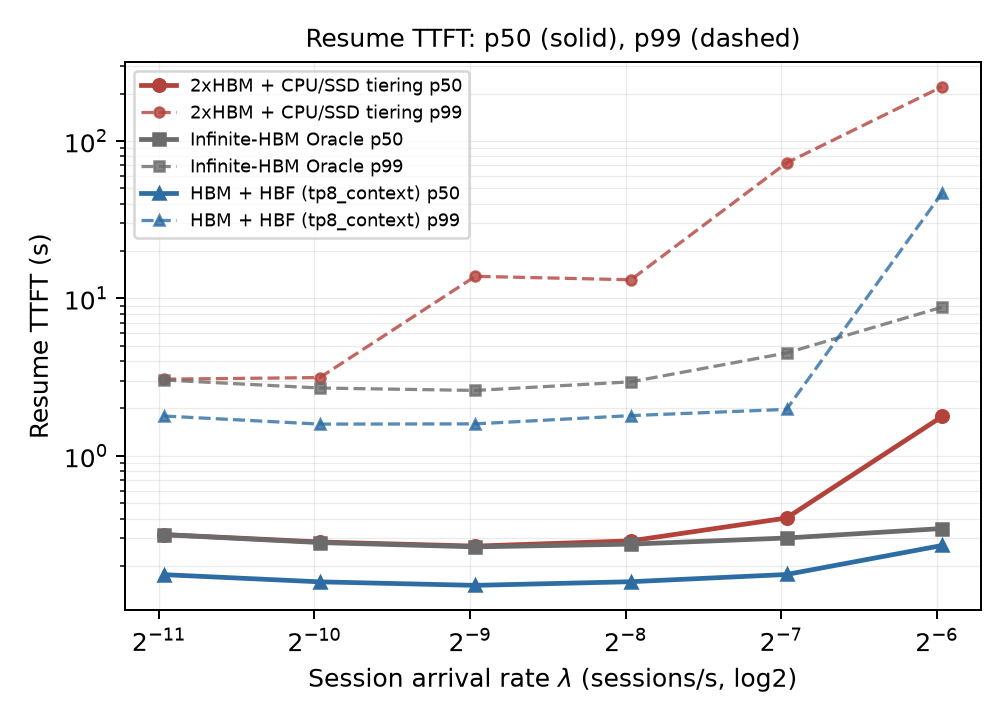
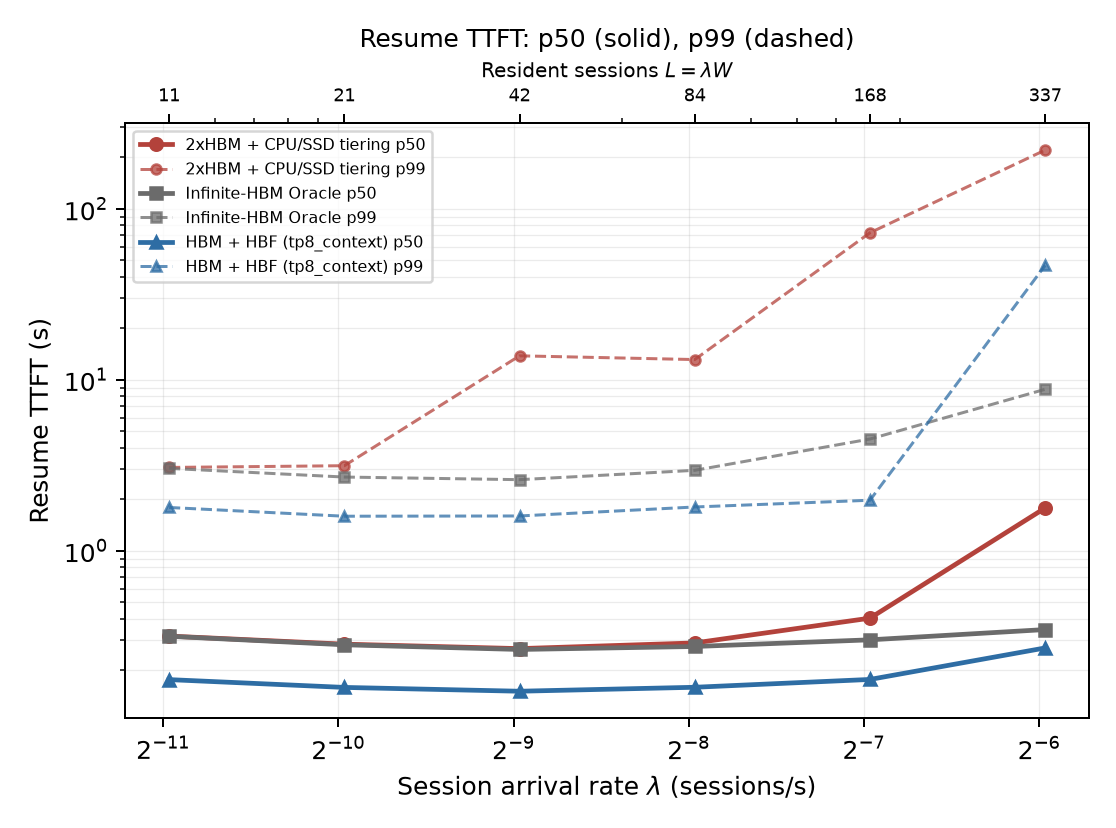
Add the four-panel three-system comparison figure
Resume TTFT, TPOT, turn latency and goodput on one sheet per family, with the
resident population labelled on a second x axis so the load knob reads as
concurrent sessions rather than an abstract rate.  The systems fail in
different places, so no single panel ranks them and the sheet has to be read
together.

diff --git a/experiments/steady_state/plot_system_comparison.py b/experiments/steady_state/plot_system_comparison.py
@@ -1,0 +1,211 @@
+#!/usr/bin/env python3
+"""Four-panel head-to-head of the three systems, one figure per family.
+
+Resume TTFT, TPOT, turn latency and SLO goodput on one sheet, because the
+three systems fail in different places and no single panel ranks them: the
+tiering baseline holds TPOT flat by refusing admission and pays in queueing,
+HBF pays for its residency in per-token latency, and only goodput -- which
+scores TTFT and TPOT together -- puts them on one axis.
+"""
+
+from __future__ import annotations
+
+import argparse
+import csv
+import math
+from pathlib import Path
+
+import matplotlib
+matplotlib.use("Agg")
+import matplotlib.pyplot as plt  # noqa: E402
+
+SCRIPT_ROOT = Path(__file__).resolve().parent
+
+SYSTEM_ORDER = (
+    "baseline_cpu_ssd", "oracle_infinite_hbm", "hbf_tp8_context")
+STYLE = {
+    "baseline_cpu_ssd": ("#B3423B", "o", "2xHBM + CPU/SSD tiering"),
+    "oracle_infinite_hbm": ("#6B6B6B", "s", "Infinite-HBM Oracle"),
+    "hbf_tp8_context": ("#2E6DA4", "^", "HBM + HBF (tp8_context)"),
+}
+FAMILY_LABEL = {
+    "claude": "Claude Code sessions",
+    "codex": "Codex sessions",
+}
+SLO_LEVEL = "tight"
+SLO_CAPTION = "SLO: first 5 s / resume 2 s / TPOT 100 ms"
+
+
+def load(root: Path):
+    rows = []
+    with (root / "aggregate.csv").open(newline="") as handle:
+        for row in csv.DictReader(handle):
+            out = {}
+            for key, value in row.items():
+                if key in {"family", "system", "seeds"}:
+                    out[key] = value
+                    continue
+                try:
+                    out[key] = float(value) if value not in ("", None) else None
+                except (TypeError, ValueError):
+                    out[key] = None
+            rows.append(out)
+    return rows
+
+
+def series(rows, system, metric):
+    pts = [
+        (r["rate"], r[metric]) for r in rows
+        if r["system"] == system and r.get(metric) is not None
+        and not (isinstance(r[metric], float) and math.isnan(r[metric]))
+    ]
+    pts.sort()
+    return pts
+
+
+def concurrency_ticks(ax, rows):
+    """Label the load axis with what it actually means: resident sessions."""
+    pairs = sorted({
+        (r["rate"], r.get("target_concurrency_mean"))
+        for r in rows if r.get("target_concurrency_mean")})
+    if not pairs:
+        return
+    top = ax.secondary_xaxis("top")
+    top.set_xticks([rate for rate, _ in pairs])
+    top.set_xticklabels([f"{int(L)}" for _, L in pairs], fontsize=7)
+    top.set_xlabel("Resident sessions $L = \\lambda W$", fontsize=8)
+
+
+def finish(ax, rows, *, ylabel, title, logy=True, note=None):
+    ax.set_xscale("log", base=2)
+    if logy:
+        ax.set_yscale("log")
+    ax.set_xlabel("Session arrival rate $\\lambda$ (sessions/s)")
+    ax.set_ylabel(ylabel)
+    ax.set_title(title, fontsize=10)
+    ax.grid(True, which="both", alpha=0.25, linewidth=0.5)
+    ax.legend(fontsize=6.5)
+    concurrency_ticks(ax, rows)
+    if note:
+        ax.text(0.02, 0.03, note, transform=ax.transAxes, fontsize=6,
+                color="#555555")
+
+
+def pair_panel(ax, rows, p50_metric, tail_metric, *, ylabel, title, note=None):
+    for system in SYSTEM_ORDER:
+        colour, marker, label = STYLE[system]
+        p50 = series(rows, system, p50_metric)
+        tail = series(rows, system, tail_metric)
+        if p50:
+            ax.plot([p[0] for p in p50], [p[1] for p in p50], marker=marker,
+                    color=colour, linewidth=1.9, markersize=5,
+                    label=f"{label} p50")
+        if tail:
+            ax.plot([p[0] for p in tail], [p[1] for p in tail], marker=marker,
+                    color=colour, linewidth=1.2, markersize=4,
+                    linestyle="--", alpha=0.75, label=f"{label} p99")
+    finish(ax, rows, ylabel=ylabel, title=title, note=note)
+
+
+def panel_turn(ax, rows):
+    for system in SYSTEM_ORDER:
+        colour, marker, label = STYLE[system]
+        pts = series(rows, system, "turn_latency_mean_s_mean")
+        if pts:
+            ax.plot([p[0] for p in pts], [p[1] for p in pts], marker=marker,
+                    color=colour, linewidth=1.9, markersize=5,
+                    label=f"{label} mean")
+        tail = series(rows, system, "turn_latency_p99_s_mean")
+        if tail:
+            ax.plot([p[0] for p in tail], [p[1] for p in tail], marker=marker,
+                    color=colour, linewidth=1.2, markersize=4,
+                    linestyle="--", alpha=0.75, label=f"{label} p99")
+    finish(ax, rows, ylabel="Turn latency (s)",
+           title="End-to-end turn: mean (solid), p99 (dashed)",
+           note="Output length makes TPOT, not TTFT, dominate this")
+
+
+def panel_goodput(ax, rows):
+    for system in SYSTEM_ORDER:
+        colour, marker, label = STYLE[system]
+        pts = series(rows, system, f"goodput_{SLO_LEVEL}_mean")
+        if not pts:
+            continue
+        ax.plot([p[0] for p in pts], [p[1] for p in pts], marker=marker,
+                color=colour, linewidth=1.9, markersize=5, label=label)
+    finish(ax, rows, ylabel="SLO-good output tokens/s", logy=False,
+           title=f"Goodput ({SLO_LEVEL} SLO) -- the only axis that ranks them",
+           note=SLO_CAPTION)
+
+
+def build(family: str, rows, out_dir: Path):
+    sub = [r for r in rows if r["family"] == family]
+    if not sub:
+        return []
+    written = []
+
+    fig, axes = plt.subplots(2, 2, figsize=(12.4, 9.2))
+    pair_panel(axes[0][0], sub,
+               "resume_ttft_p50_s_mean", "resume_ttft_p99_s_mean",
+               ylabel="Resume TTFT (s)",
+               title="Resume TTFT: p50 (solid), p99 (dashed)",
+               note="Baseline pays its capacity limit here")
+    pair_panel(axes[0][1], sub, "tpot_p50_ms_mean", "tpot_p99_ms_mean",
+               ylabel="TPOT (ms/token)",
+               title="Inter-token latency: p50 (solid), p99 (dashed)",
+               note="Flat baseline = admission throttling, not speed")
+    panel_turn(axes[1][0], sub)
+    panel_goodput(axes[1][1], sub)
+    fig.suptitle(
+        f"Three-system comparison at steady state - "
+        f"{FAMILY_LABEL.get(family, family)}", fontsize=13)
+    fig.tight_layout(rect=(0, 0, 1, 0.955))
+    path = out_dir / f"{family}_system_comparison.png"
+    fig.savefig(path, dpi=180)
+    plt.close(fig)
+    written.append(path)
+
+    for name, fn in (
+        ("resume_ttft", lambda ax: pair_panel(
+            ax, sub, "resume_ttft_p50_s_mean", "resume_ttft_p99_s_mean",
+            ylabel="Resume TTFT (s)",
+            title="Resume TTFT: p50 (solid), p99 (dashed)")),
+        ("tpot", lambda ax: pair_panel(
+            ax, sub, "tpot_p50_ms_mean", "tpot_p99_ms_mean",
+            ylabel="TPOT (ms/token)",
+            title="Inter-token latency: p50 (solid), p99 (dashed)")),
+        ("turn_latency", lambda ax: panel_turn(ax, sub)),
+        ("goodput", lambda ax: panel_goodput(ax, sub)),
+    ):
+        fig, ax = plt.subplots(figsize=(6.2, 4.6))
+        fn(ax)
+        fig.tight_layout()
+        path = out_dir / f"{family}_{name}.png"
+        fig.savefig(path, dpi=180)
+        plt.close(fig)
+        written.append(path)
+    return written
+
+
+def main() -> int:
+    parser = argparse.ArgumentParser()
+    parser.add_argument(
+        "--root", type=Path, default=SCRIPT_ROOT / "steady_state_v1")
+    parser.add_argument(
+        "--out", type=Path,
+        default=Path("..")
+        / "figures" / "steady_state_v1")
+    args = parser.parse_args()
+
+    rows = load(args.root)
+    args.out.mkdir(parents=True, exist_ok=True)
+    written = []
+    for family in sorted({r["family"] for r in rows}):
+        written.extend(build(family, rows, args.out))
+    for path in written:
+        print(f"wrote {path}")
+    return 0
+
+
+if __name__ == "__main__":
+    raise SystemExit(main())
